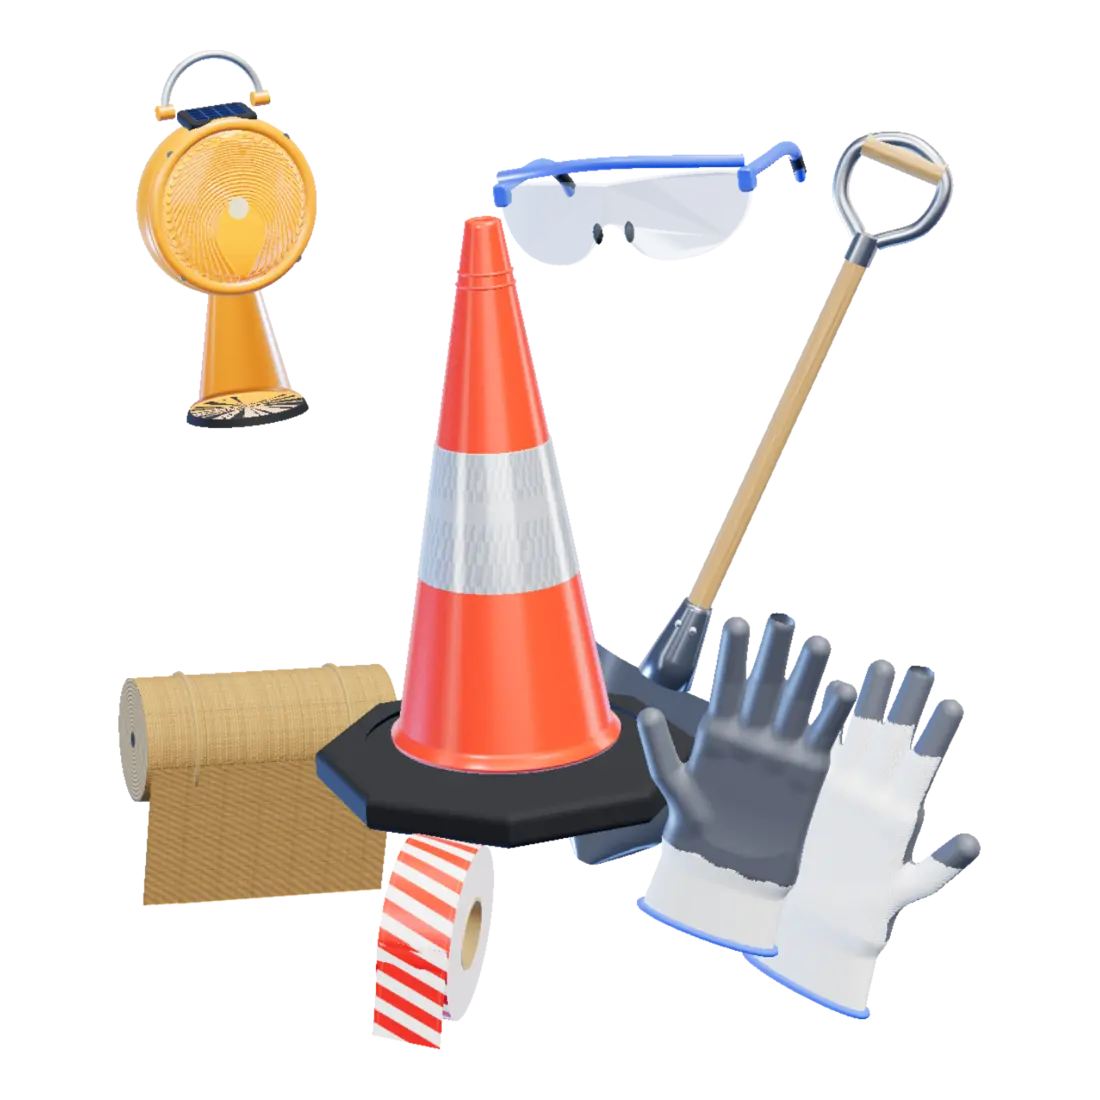
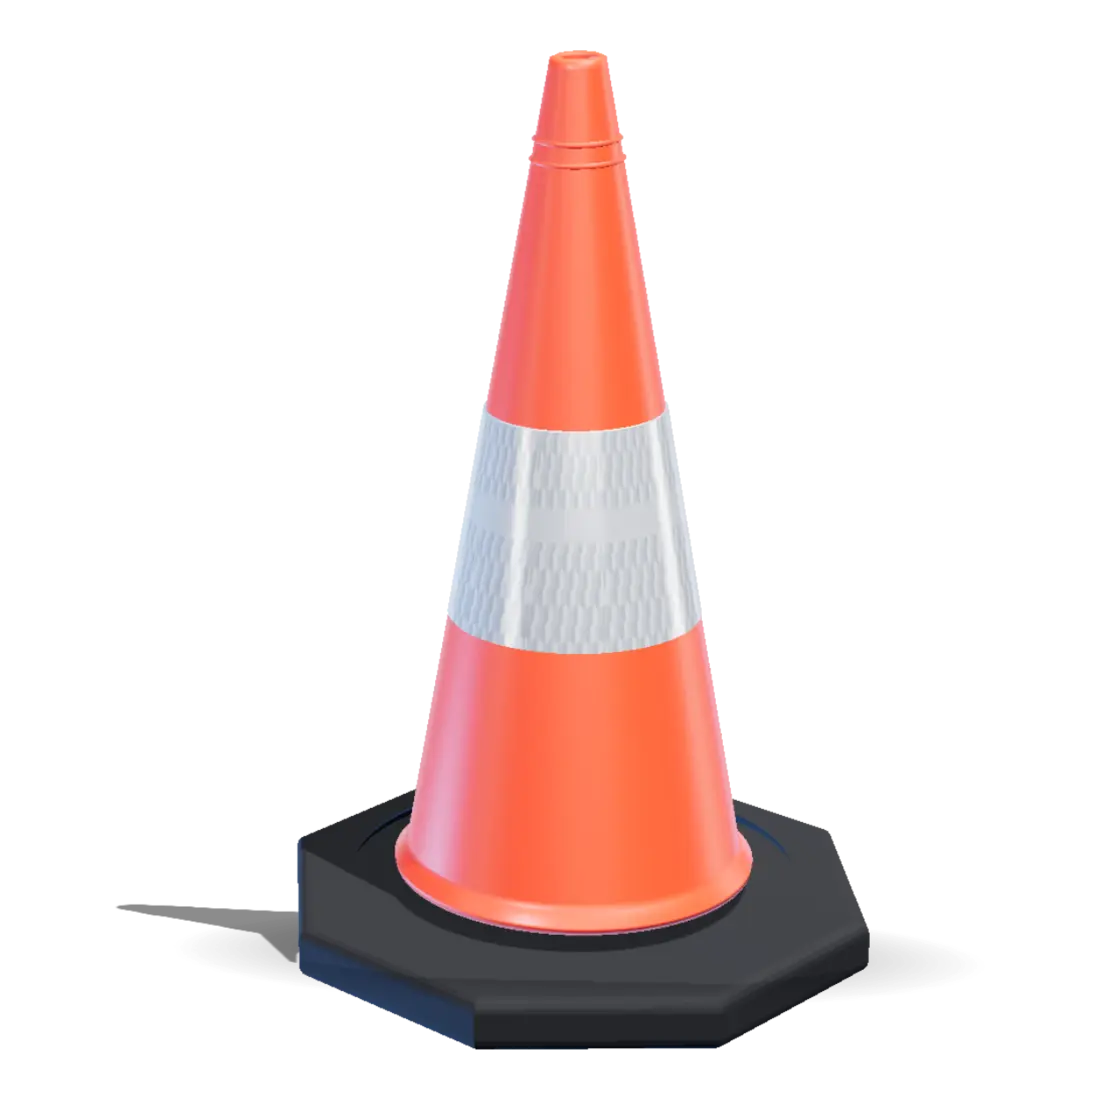
BAM website: hero showcase, one item at a time in studio light with soft shadows
Real-time soft shadows, a shadow floor and contact blob, moulded fresnel rings and a glow on the
warning light, creases and ribbed cuffs on the gloves, captions with a timer line under the hero item.

Claude-Session: https://claude.ai/code/session_01CeitcRo9nvt1y9ScP8KtDB

diff --git a/app/tools/bam-site/v3/static/hw3d.js b/app/tools/bam-site/v3/static/hw3d.js
@@ -30,7 +30,7 @@
   renderer.setPixelRatio(Math.min(window.devicePixelRatio || 1, small() ? 1.5 : 1.75));
   renderer.outputEncoding = T.sRGBEncoding;
   renderer.toneMapping = T.ACESFilmicToneMapping;
-  renderer.toneMappingExposure = 1.05;
+  renderer.toneMappingExposure = 1.12;
   renderer.setClearColor(0x000000, 0);
 
   var scene = new T.Scene();
@@ -56,7 +56,12 @@
     scene.environment = pm.fromScene(s, 0.03).texture;
     pm.dispose();
   })();
-  var key = new T.DirectionalLight(0xffffff, 1.3); key.position.set(4, 9, 7); scene.add(key);
+  var key = new T.DirectionalLight(0xffffff, 1.45); key.position.set(4, 9, 7);
+  renderer.shadowMap.enabled = true; renderer.shadowMap.type = T.PCFSoftShadowMap;
+  key.castShadow = true;
+  key.shadow.mapSize.set(small() ? 1024 : 2048, small() ? 1024 : 2048);
+  key.shadow.camera.left = key.shadow.camera.bottom = -6; key.shadow.camera.right = key.shadow.camera.top = 6;
+  key.shadow.camera.near = 1; key.shadow.camera.far = 30; key.shadow.bias = -0.0012; key.shadow.normalBias = 0.045; key.shadow.radius = 4;
   var rim = new T.DirectionalLight(0x3d7bff, 2.2); rim.position.set(-7, -3, -6); scene.add(rim);
   var fill = new T.DirectionalLight(0xdfe6ff, 0.45); fill.position.set(-6, 2, 8); scene.add(fill);
   scene.add(new T.AmbientLight(0x30343c, 0.55));
@@ -144,6 +149,7 @@
   }
 
   var rig = new T.Group(); scene.add(rig);
+  rig.add(key); rig.add(key.target);   // the key light and its shadows travel with the group
   var stage = new T.Group(); rig.add(stage);
   var tools = {}, order = [];
   function tool(name) {
@@ -337,11 +343,11 @@
 
   var BLUE = 0x2f6dff;
   var K = {
-    cone: new T.MeshPhysicalMaterial({ color: srgb(0xe8341c), roughness: 0.42, roughnessMap: mottle, clearcoat: 0.6, clearcoatRoughness: 0.3 }),
+    cone: new T.MeshPhysicalMaterial({ color: srgb(0xe8341c), roughness: 0.4, clearcoat: 0.6, clearcoatRoughness: 0.3 }),
     reflect: new T.MeshStandardMaterial({ map: prismMap, metalness: 0.55, roughness: 0.16, emissive: srgb(0x30343a) }),
     rubber: new T.MeshStandardMaterial({ color: srgb(0x17181b), roughness: 0.82 }),
-    body: new T.MeshPhysicalMaterial({ color: srgb(0xff8a12), roughness: 0.34, roughnessMap: mottle, clearcoat: 0.8, clearcoatRoughness: 0.2 }),
-    lensA: new T.MeshPhysicalMaterial({ color: srgb(0xff9800), emissive: srgb(0xff5a00), emissiveIntensity: 0.5, bumpMap: ringsTex, bumpScale: 0.05, roughness: 0.1, clearcoat: 1, clearcoatRoughness: 0.04 }),
+    body: new T.MeshPhysicalMaterial({ color: srgb(0xff8a12), roughness: 0.34, clearcoat: 0.8, clearcoatRoughness: 0.2 }),
+    lensA: new T.MeshPhysicalMaterial({ color: srgb(0xffa000), emissive: srgb(0xff5a00), emissiveIntensity: 0.3, roughness: 0.1, clearcoat: 1, clearcoatRoughness: 0.04 }),
     bulb: new T.MeshBasicMaterial({ color: srgb(0xfff1c2) }),
     solar: new T.MeshPhysicalMaterial({ map: solarTex, metalness: 0.3, roughness: 0.18, clearcoat: 1 }),
     ribbon: new T.MeshStandardMaterial({ map: cautionTexV, roughness: 0.42, side: T.DoubleSide }),
@@ -448,7 +454,10 @@
     var body = lathe([[0, -0.18], [0.6, -0.18], [0.66, -0.14], [0.68, -0.06], [0.68, 0.1], [0.66, 0.15], [0.62, 0.17], [0, 0.17]], 96, K.body);
     body.rotation.x = Math.PI / 2; body.position.y = 0.2; s.add(body);
     var bezel = new T.Mesh(new T.TorusGeometry(0.615, 0.055, 18, 96), K.body); bezel.position.set(0, 0.2, 0.17); s.add(bezel);
-    lens = lathe([[0, 0], [0.59, 0], [0.575, 0.05], [0.5, 0.1], [0.3, 0.13], [0, 0.14]], 96, K.lensA);
+    var lp = [[0, 0], [0.59, 0], [0.585, 0.04]], rr = 0.58, zz = 0.04;
+    while (rr > 0.12) { zz += 0.006; lp.push([rr - 0.004, zz + 0.022]); rr -= 0.046; lp.push([rr + 0.002, zz]); }
+    lp.push([0.1, zz + 0.03], [0, zz + 0.035]);
+    lens = lathe(lp, 128, K.lensA);
     lens.rotation.x = Math.PI / 2; lens.position.set(0, 0.2, 0.15); s.add(lens);
     var led = new T.Mesh(new T.SphereGeometry(0.09, 24, 16), K.bulb); led.position.set(0, 0.2, 0.27); led.scale.z = 0.5; s.add(led);
     for (var k = 0; k < 4; k++) {                     // four screws round the bezel
@@ -459,9 +468,15 @@
     var cell = new T.Mesh(new T.PlaneGeometry(0.42, 0.25), K.solar); cell.rotation.x = -Math.PI / 2 + 0.25; cell.position.set(0, 0.905, 0.03); s.add(cell);
     var hoop = new T.Mesh(new T.TorusGeometry(0.38, 0.032, 14, 64, Math.PI), M.satin); hoop.position.set(0, 0.95, -0.04); s.add(hoop);
     [-1, 1].forEach(function (x) { var p = new T.Mesh(new T.CylinderGeometry(0.055, 0.055, 0.12, 20), K.body); p.rotation.z = Math.PI / 2; p.position.set(x * 0.38, 0.95, -0.04); s.add(p); });
-    var mount = lathe([[0, -0.18], [0.12, -0.18], [0.15, -0.3], [0.17, -0.33], [0.36, -1.28], [0.43, -1.33], [0.43, -1.36], [0, -1.36]], 64, K.body); s.add(mount);
+    var mount = lathe([[0, -0.18], [0.12, -0.18], [0.15, -0.3], [0.17, -0.33], [0.36, -1.28], [0.43, -1.33], [0.43, -1.345], [0, -1.345]], 64, K.body); s.add(mount);
     var foot = new T.Mesh(new T.CylinderGeometry(0.45, 0.47, 0.06, 64), K.rubber); foot.position.y = -1.39; s.add(foot);
     glow = new T.PointLight(0xff8a1a, 0, 5); glow.position.set(0, 0.2, 0.9); s.add(glow);
+    var halo = new T.Sprite(new T.SpriteMaterial({ map: canvasTex(128, 128, function (x, w, h) {
+      var g = x.createRadialGradient(w / 2, h / 2, 0, w / 2, h / 2, w / 2);
+      g.addColorStop(0, 'rgba(255,214,140,1)'); g.addColorStop(0.25, 'rgba(255,150,40,.55)'); g.addColorStop(1, 'rgba(255,120,0,0)');
+      x.fillStyle = g; x.fillRect(0, 0, w, h);
+    }), blending: T.AdditiveBlending, transparent: true, depthWrite: false, opacity: 0 }));
+    halo.scale.set(2.6, 2.6, 1); halo.position.set(0, 0.2, 0.35); s.add(halo); light.userData.halo = halo;
     s.position.y = 0.3;
   })(light);
 
@@ -564,9 +579,21 @@
       });
       
       var cuff = Math.max(Math.abs(y + 0.93) - 0.3, Math.sqrt(x * x / Math.pow(0.47 + (-0.66 - y) * 0.08, 2) + z * z / 0.022) - 1) * 0.2;
-      return smin(d, cuff, 0.12);
+      d = smin(d, cuff, 0.12);
+      // creases: shallow grooves across each finger at the joints, and two palm lines
+      var cr = 0;
+      fingers.forEach(function (f) {
+        [0.42, 0.78].forEach(function (t) {
+          var jy = f[0][1] + (f[2][1] - f[0][1]) * t, jx = f[0][0] + (f[2][0] - f[0][0]) * t;
+          var dx = x - jx, dy = y - jy;
+          if (Math.abs(dx) < 0.14) cr += 0.012 * Math.exp(-dy * dy / 0.0007) * (1 - Math.abs(dx) / 0.14);
+        });
+      });
+      if (y > -0.5 && y < 0.35) cr += 0.007 * Math.exp(-Math.pow(y - 0.18 + x * 0.25, 2) / 0.0012) + 0.006 * Math.exp(-Math.pow(y + 0.12 - x * 0.35, 2) / 0.0012);
+      if (y < -0.68) cr += 0.006 * Math.pow(Math.sin(x * 70), 8);   // the ribs of the knitted cuff
+      return d + cr;
     };
-    var S = surface(F, [-1.05, -1.4, -0.3], [0.7, 1.45, 0.36], 0.021);
+    var S = surface(F, [-1.05, -1.4, -0.3], [0.7, 1.55, 0.36], small() ? 0.02 : 0.016);
     // which skin is coated: the palm side, and the finger tips all round
     var tipY = function (x) { return x < -0.25 ? 0.9 : x < 0.0 ? 1.06 : x < 0.24 ? 0.98 : 0.76; };
     var wav = function (x, y) { return Math.sin(x * 23) * 0.012 + Math.sin(x * 7 + y * 5) * 0.015; };
@@ -645,6 +672,18 @@
     });
   })(goggles);
 
+  var floor = new T.Mesh(new T.PlaneGeometry(12, 12), new T.ShadowMaterial({ opacity: 0.45 }));
+  floor.rotation.x = -Math.PI / 2; floor.position.y = -2.25; floor.receiveShadow = true; rig.add(floor);
+  var blobTex = canvasTex(256, 256, function (x, w, h) {
+    var g = x.createRadialGradient(w / 2, h / 2, 0, w / 2, h / 2, w / 2);
+    g.addColorStop(0, 'rgba(0,0,0,.55)'); g.addColorStop(0.5, 'rgba(0,0,0,.22)'); g.addColorStop(1, 'rgba(0,0,0,0)');
+    x.fillStyle = g; x.fillRect(0, 0, w, h);
+  });
+  var blob = new T.Mesh(new T.PlaneGeometry(4.2, 4.2), new T.MeshBasicMaterial({ map: blobTex, transparent: true, depthWrite: false }));
+  blob.rotation.x = -Math.PI / 2; blob.position.y = -2.24; rig.add(blob);
+  // every solid part throws and catches shadow; the clear lens only catches it
+  stage.traverse(function (o) { if (o.isMesh) { var tr = o.material && o.material.transparent; o.castShadow = !tr; o.receiveShadow = true; } });
+
   /* where each name sits on the wall: a point beside the item (in wall units, from its middle), and which side of it the name goes */
   var anchors = [
     { id: 'cone', d: [0.0, 1.85], at: 'up' },
@@ -686,6 +725,28 @@
     tape: { p: [-1.75, -3.15, 0], s: 0.9 }, hessian: { p: [0.45, -3.1, 0], s: 0.6 },
     shovel: { p: [2.35, -0.1, 0], s: 0.82 }
   };
+  // the showcase: in the hero one item at a time, big, turning slowly in the studio light; the next one slides in every few seconds
+  var SHOW = true, SHOW_EVERY = 4.6;
+  var SHOW_S = { cone: 1.42, light: 1.55, gloves: 1.5, shovel: 0.98, tape: 2.3, hessian: 1.5, goggles: 1.9 };
+  // tilt towards you, the three-quarter turn it rests at, and its lean
+  var SHOW_R = { cone: [0.2, 0.3, 0], light: [0.12, 0.35, 0], gloves: [0.08, 0.2, 0.1], shovel: [0.15, 0.5, -0.55], tape: [0.22, 0.75, 0.05], hessian: [0.35, 0.55, -0.05], goggles: [0.18, 0.6, 0.05] };
+  var SHOW_Y = { cone: -0.05, light: 0.1, gloves: 0.1, shovel: 0.35, tape: 0.2, hessian: 0.2, goggles: 0.3 };
+  var capEls = {}, capBar = null, capOn = null;
+  (function () {
+    var box = document.querySelector('.showcap');
+    if (!box) return;
+    Array.prototype.forEach.call(box.querySelectorAll('[data-cap]'), function (el) { capEls[el.getAttribute('data-cap')] = el; });
+    capBar = box.querySelector('.showcap__bar i');
+  })();
+  function caption(id, i, n, f) {
+    if (capOn !== id) {
+      if (capEls[capOn]) capEls[capOn].classList.remove('is-on');
+      var el = capEls[id];
+      if (el) { el.classList.add('is-on'); el.querySelector('small').textContent = ('0' + (i + 1)).slice(-2) + ' / ' + ('0' + n).slice(-2); }
+      capOn = id;
+    }
+    if (capBar) capBar.style.transform = 'scaleX(' + f.toFixed(3) + ')';
+  }
   var START = {      // where they fly in from when the page opens
     cone: [0, -8, 1], light: [-6, 6, -1], shovel: [7, 5, -2], hessian: [-7, -5, -1], gloves: [6, -6, 2], goggles: [2, 8, 1], tape: [-3, -9, 3]
   };
@@ -735,6 +796,8 @@
       lerp(-0.18 * side + h * 0.55 * side + Math.sin(t * 0.3) * 0.05, 0, ar) + st.mx * 0.25 * (1 - a * 0.5),
       0);
     stage.position.y = lerp(-0.1, 0, ar);
+    var fo = SHOW ? (1 - ar) : 0;
+    floor.visible = blob.visible = fo > 0.01; floor.material.opacity = 0.45 * fo; blob.material.opacity = fo;
     var spread = 1 + h * 0.4 + Math.sin(t * 0.5) * 0.03;    // the fan opens as you scroll, and breathes
     order.forEach(function (name, k) {
       var g = tools[name], Wl = WALL[name], F = FAN[name], H = HERO[name];
@@ -742,6 +805,16 @@
       if (F) {      // its place in the fan: out from the handles along its angle
         var an = F.a * D * spread;
         H = { p: [PIV[0] - Math.sin(an) * RAD, PIV[1] + Math.cos(an) * RAD, F.z], r: [0.12, F.ry, an + (F.flip ? Math.PI : 0)], s: F.s };
+      }
+      if (SHOW) {
+        var n = order.length, cyc = st.t / SHOW_EVERY, cur = Math.floor(cyc) % n, prev = (cur + n - 1) % n;
+        var tr = ease(clamp01((cyc - Math.floor(cyc)) / 0.22)), wgt = k === cur ? tr : k === prev && cyc >= 1 ? 1 - tr : 0;
+        if (cyc < 1 && k === cur) wgt = 1;
+        var dir = k === cur ? 1 : -1, R0 = SHOW_R[name];
+        var spin = R0[1] + Math.sin(st.t * 0.55 + k) * 0.55 + (1 - wgt) * dir * 1.2;   // turns gently to and fro, never edge-on
+        H = { p: [lerp(dir * 4.6, 0, wgt), lerp(-0.4, SHOW_Y[name], wgt), lerp(-3, 0.6, wgt)],
+              r: [R0[0], spin, R0[2]], s: Math.max(0.001, SHOW_S[name] * out(wgt)) };
+        if (k === 0) caption(order[cur], cur, n, clamp01(cyc - Math.floor(cyc)));
       }
       var hx = H.p[0] * side, hy = H.p[1], hz = H.p[2];
       // floating, each in its own time
@@ -771,8 +844,9 @@
     tools.tape.userData.inner.rotation.x = -ribL * 0.4;   // the roll turns as the tape comes off
     // the warning light flashes
     var fl = Math.pow(Math.max(0, Math.sin(t * 4.2)), 6);
-    K.lensA.emissiveIntensity = 0.45 + fl * 2.6;
+    K.lensA.emissiveIntensity = 0.25 + fl * 2.8;
     glow.intensity = fl * 2.2;
+    light.userData.halo.material.opacity = fl * 0.9;
     // the hessian flap moves a little in the air
     flap.rotation.x = Math.sin(t * 1.1) * 0.07 - 0.05;
   }
@@ -816,6 +890,7 @@
   api.show = function (on) { visible = on; canvas.style.visibility = on ? 'visible' : 'hidden'; if (on) last = performance.now(); };
   api.pointer = function (x, y) { st.tx = x; st.ty = y; };
   api.skipIntro = function () { st.intro = 1; };
+  api.at = function (sec) { st.t = sec; };   // for tests: jump the clock
   var phoneLabels = null;
   function labelSides() {
     var map = api.labels, ph = camera.aspect < 0.9, rtl = document.documentElement.dir === 'rtl';

diff --git a/app/tools/bam-site/v3/static/site.css b/app/tools/bam-site/v3/static/site.css
@@ -176,6 +176,17 @@ main > .hero, main > .fix, main > .gl { z-index: auto; }
 [dir=rtl] .hero__poster { right: auto; left: 0; transform: translateY(-50%) scaleX(-1); }
 html.no-gl .hero__poster, html:not(.js) .hero__poster { display: block; }
 .hero__content { position: relative; z-index: 3; }
+/* the showcase caption: which item is turning in the light, and a line that fills until the next */
+.showcap { display: none; position: absolute; z-index: 3; inset-inline-end: var(--gut); bottom: 128px; width: 260px; height: 64px; pointer-events: none; }
+html.has-gl .showcap { display: block; }
+.showcap__item { position: absolute; inset-inline-end: 0; bottom: 14px; display: flex; flex-direction: column; align-items: flex-end; gap: 4px; text-decoration: none; color: var(--chalk); opacity: 0; transform: translateY(12px); transition: opacity .5s, transform .7s var(--out); white-space: nowrap; }
+.showcap__item.is-on { opacity: 1; transform: none; pointer-events: auto; }
+.showcap__item small { font: 500 11px var(--f-mono); letter-spacing: .14em; color: var(--o-2); }
+.showcap__item b { font-family: var(--f-display); font-size: 26px; font-weight: 800; text-transform: uppercase; letter-spacing: -.01em; line-height: 1; }
+.showcap__bar { position: absolute; inset-inline-end: 0; bottom: 0; width: 180px; height: 2px; background: var(--edge-2); overflow: hidden; }
+.showcap__bar i { position: absolute; inset: 0; background: var(--o); transform-origin: 0 50%; transform: scaleX(0); }
+[dir=rtl] .showcap__bar i { transform-origin: 100% 50%; }
+@media (max-width: 899px) { html.has-gl .showcap { display: none; } }
 .hero__kicker { margin-bottom: 26px; }
 .hero__title { font-size: clamp(60px, min(10.4vw, 15.5vh), 186px); line-height: .84; display: flex; flex-direction: column; margin-bottom: 30px; }
 html[lang=ar] .hero__title { font-size: clamp(50px, min(8vw, 12.5vh), 132px); line-height: 1.1; }

diff --git a/app/tools/bam-site/v3/templates/home.html b/app/tools/bam-site/v3/templates/home.html
@@ -6,6 +6,7 @@
 <section class="hero" id="top">
   <div class="hero__bg" aria-hidden="true"><i class="hero__glow"></i><i class="hero__grid"></i><i class="hero__ring"></i></div>
   <img class="hero__poster" src="{{ root }}assets/img/hero-3d.webp" alt="" width="1100" height="1100" loading="lazy" aria-hidden="true">
+  <div class="showcap" aria-hidden="true">{% for f in fixings %}<a class="showcap__item" data-cap="{{ f.id }}" href="{{ home }}range/{{ f.range }}/#g-{{ f.g }}" tabindex="-1"><small dir="ltr"></small><b>{{ T('part_' ~ f.id) }}</b></a>{% endfor %}<i class="showcap__bar"><i></i></i></div>
   <div class="wrap hero__content">
     <p class="kicker mono hero__kicker"><i class="dot"></i>{{ T('k_showroom') }}</p>
     <h1 class="hero__title">
